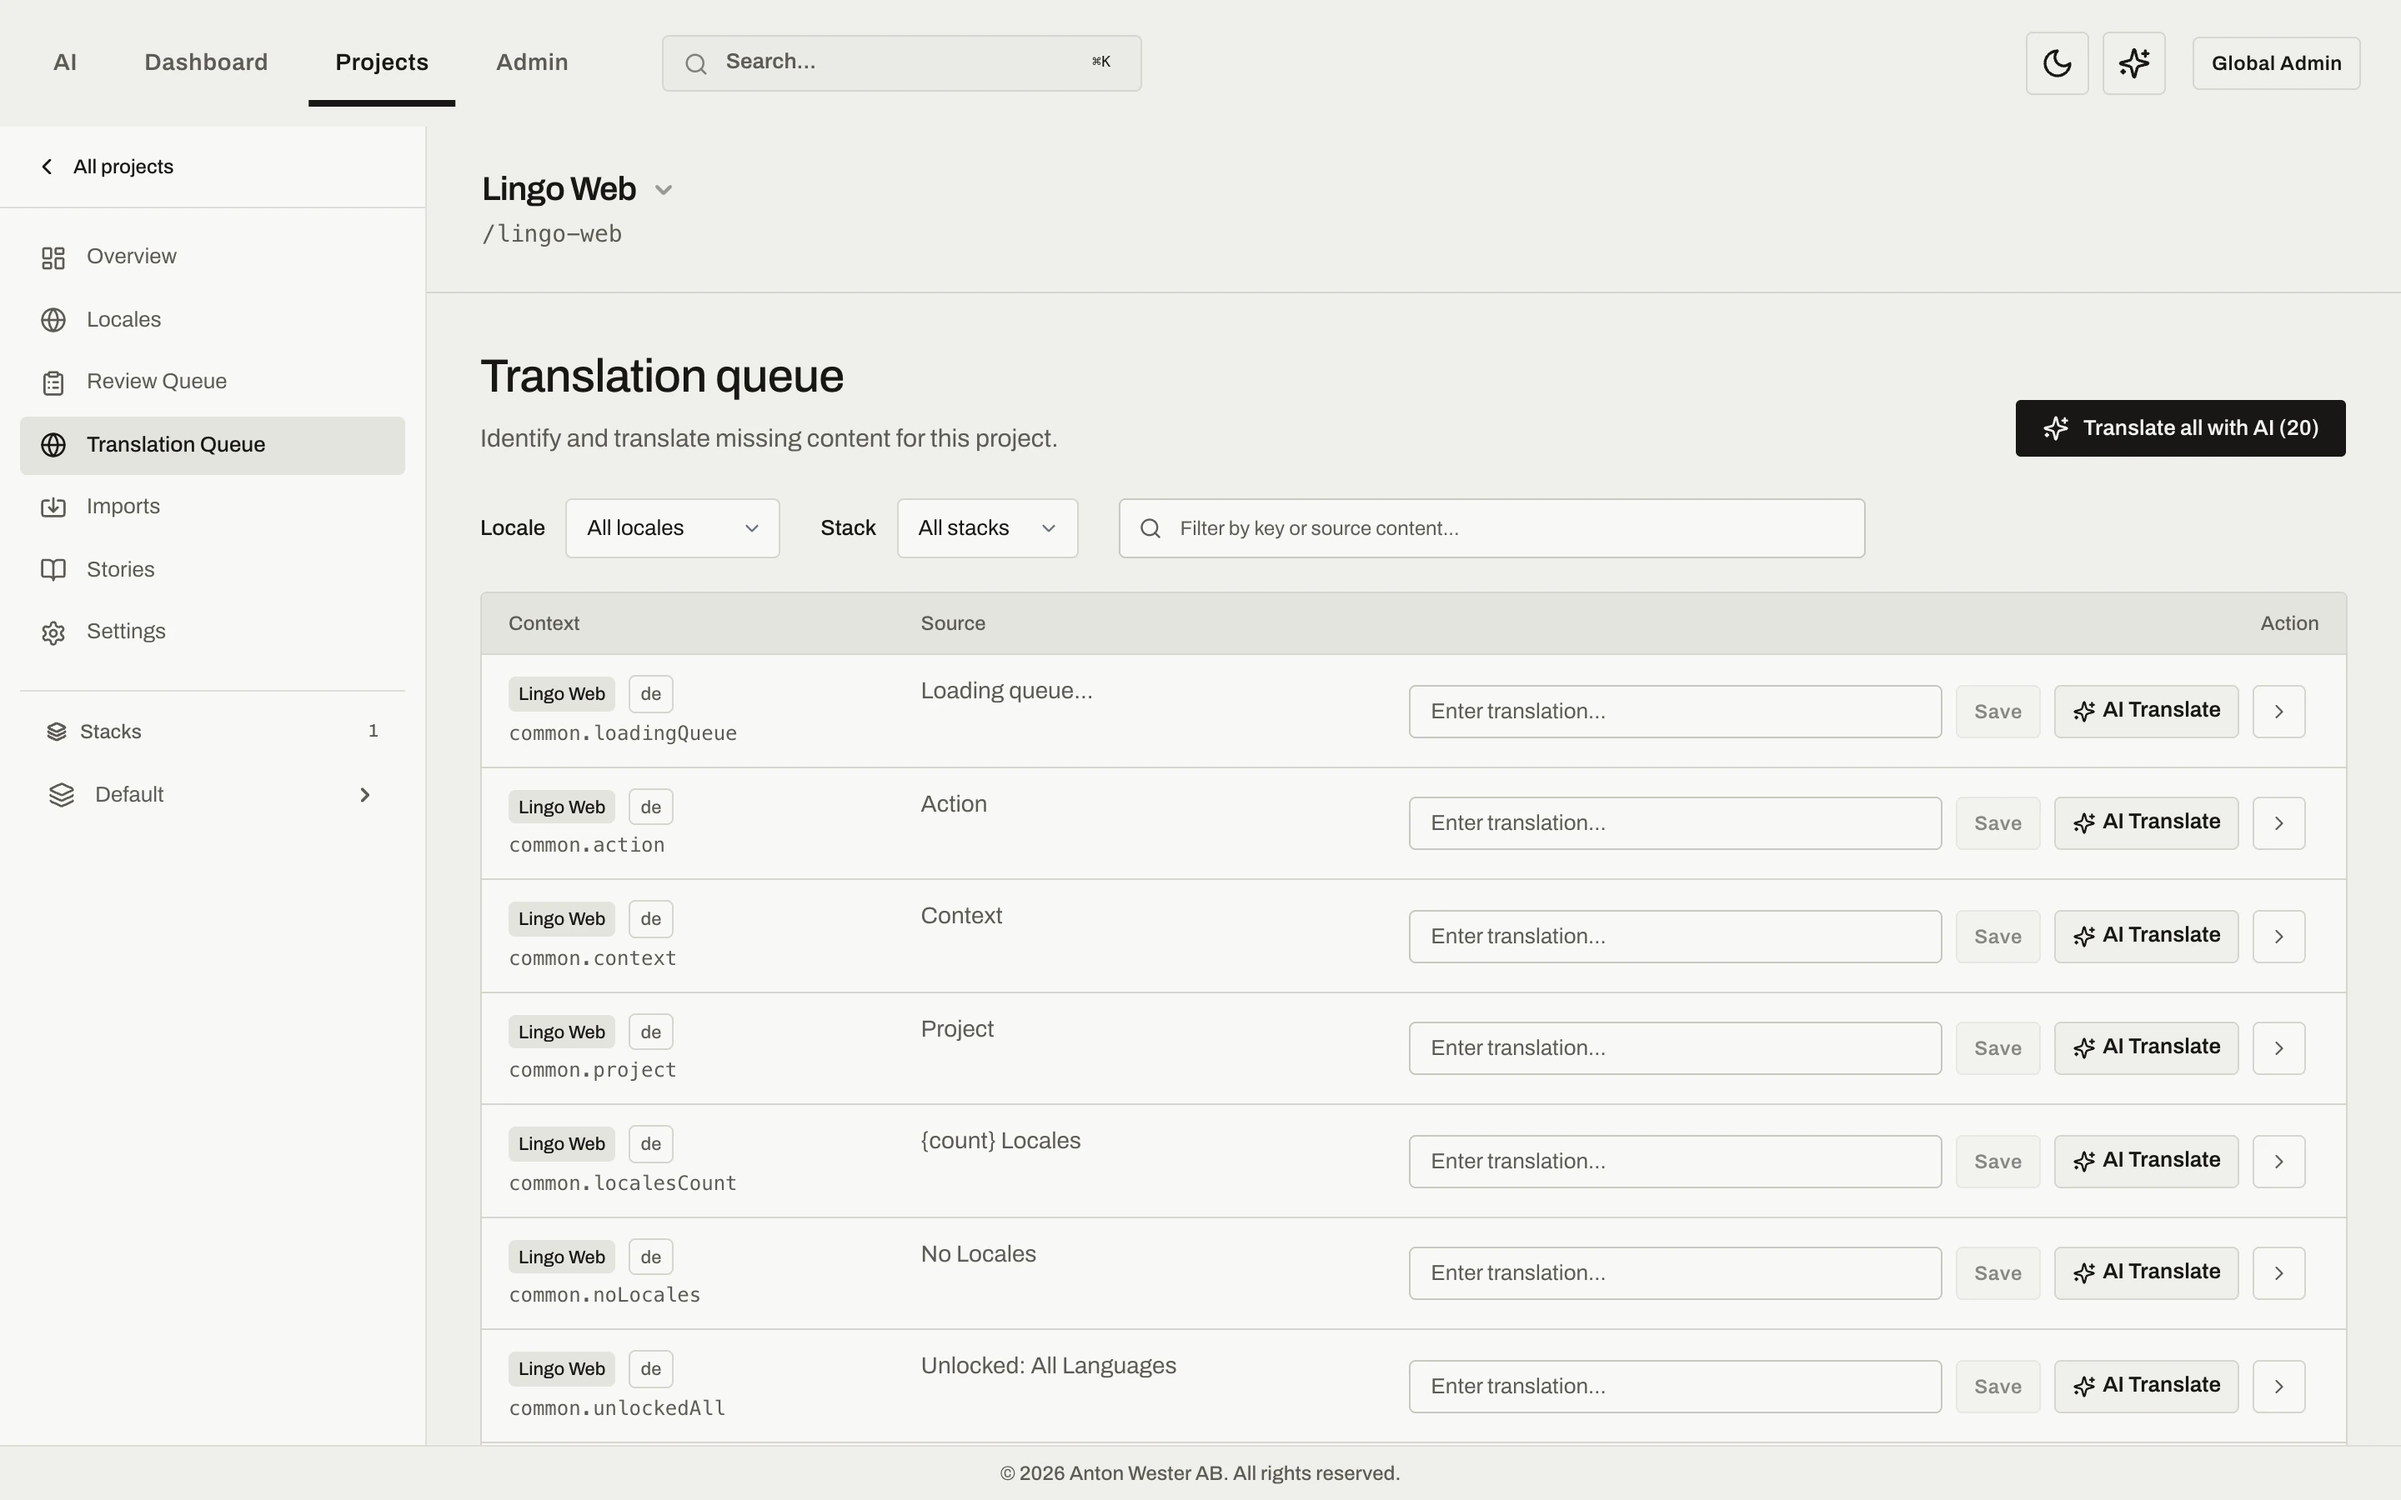
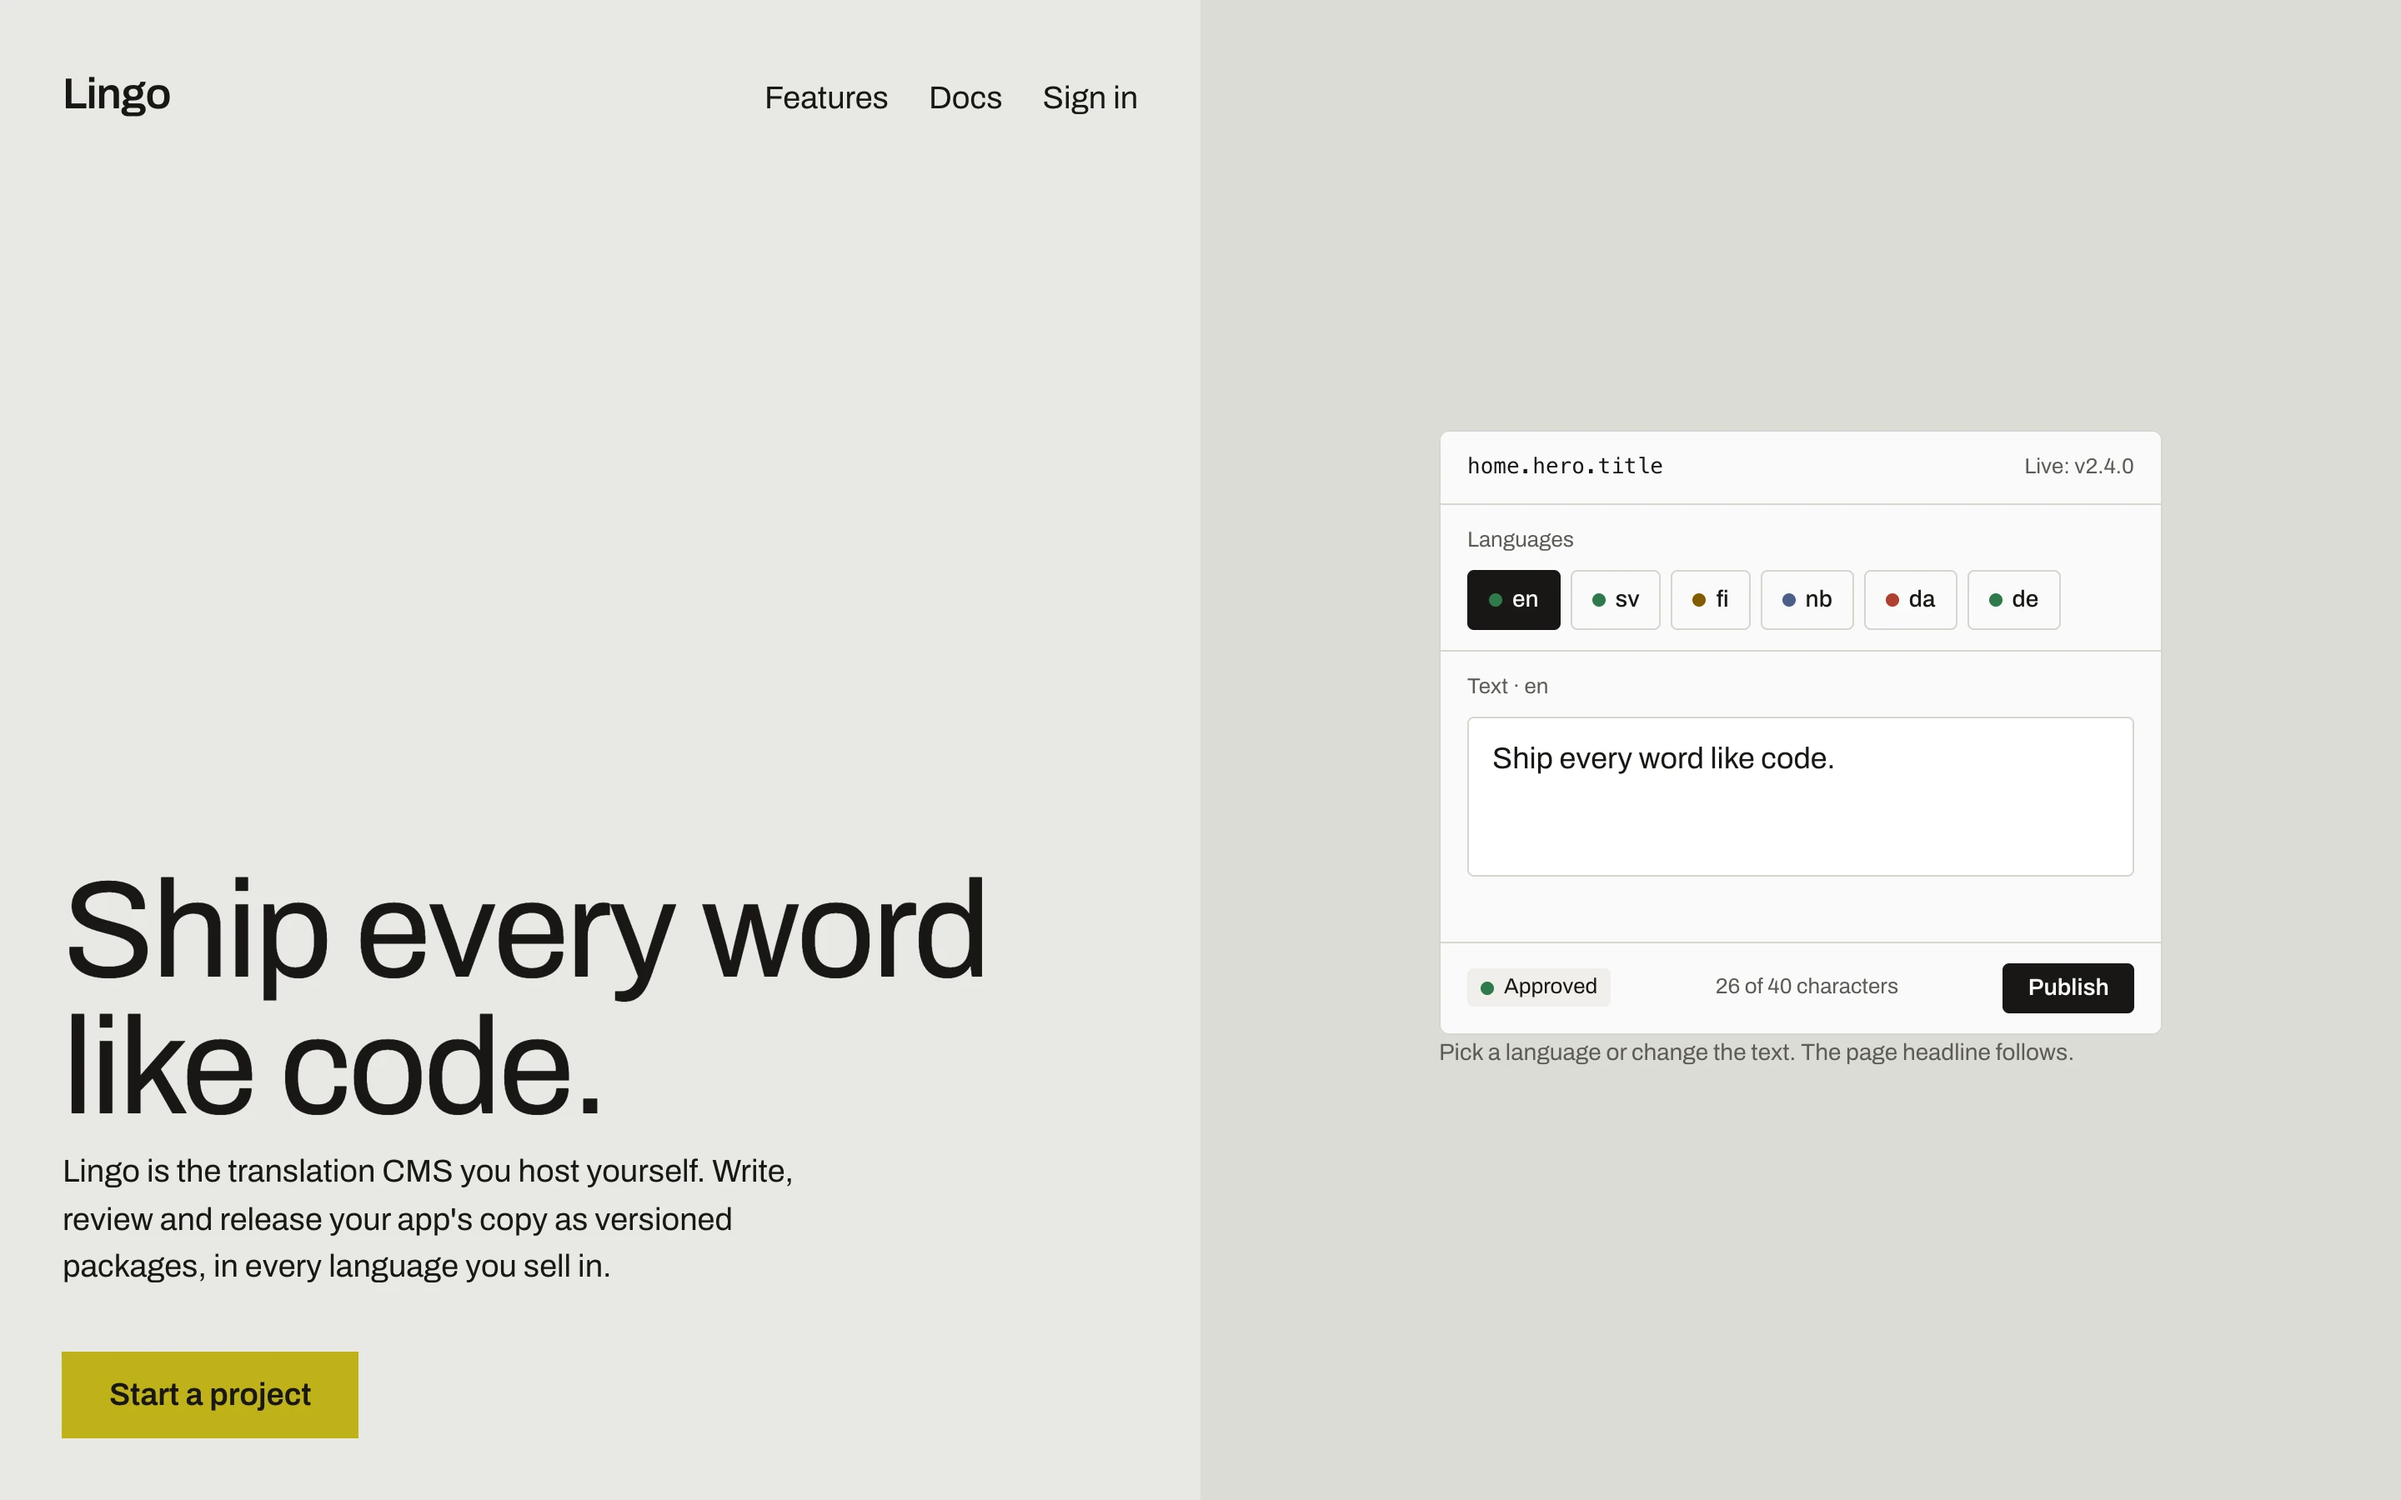
content: Lingo shot from the signed-out landing page
The shot script no longer signs in to Lingo, so it needs no demo password.

diff --git a/scripts/shots.ts b/scripts/shots.ts
@@ -4,21 +4,9 @@ import sharp from 'sharp';
 const targets: { id: string; url: string; wait: number; storage?: Record<string, string>; prepare?: (page: Page) => Promise<void> }[] = [
   {
     id: 'lingo',
-    // a local Lingo with its seeded demo data; the signed-in app shows more than the public login page
-    url: `${process.env.LINGO_URL ?? 'http://localhost:3101'}/login`,
-    wait: 1500,
-    prepare: async (page) => {
-      await page.getByLabel(/e-?mail/i).fill('admin@lingo.dev');
-      await page.getByLabel(/password/i).fill('password');
-      await page.getByRole('button', { name: /sign in/i }).click();
-      await page.waitForURL(/dashboard/);
-      await page.getByRole('dialog').getByRole('button', { name: /close/i }).click();
-      await page.getByRole('link', { name: 'Projects' }).first().click();
-      await page.getByText('Lingo Web', { exact: true }).first().click();
-      await page.getByText('Translation Queue', { exact: true }).first().click();
-      await page.waitForLoadState('networkidle');
-      await page.waitForTimeout(1500);
-    },
+    // the public landing page, signed out
+    url: process.env.LINGO_URL ?? 'https://lingo.antonwester.se',
+    wait: 2500,
   },
   {
     id: 'sokhem',
